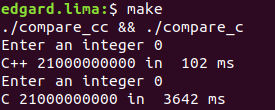
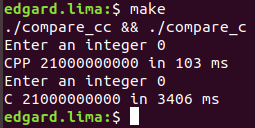
refactored

diff --git a/comparing_cc_c/variadic_functions/main.cc b/comparing_cc_c/variadic_functions/main.cc
@@ -1,98 +1,25 @@
 
-
 #ifdef __cplusplus
-
-#pragma message "compiling for c++"
-
 #include <sys/time.h>
 #include <cstdio>
 #include <cstdint>
-#include <cstdlib>
-
-#define LANG "C++"
+//#define LANG "C++"
 #else
-
-#pragma message "compiling for c"
-
 #include <sys/time.h>
 #include <stdint.h>
-#include <stdarg.h>
 #include <stdio.h>
-#include <stdlib.h>
-
-#define LANG "C"
+//#define LANG "C"
 #endif
 
-
-#ifdef RAND
-#define VARIADIC_LOOPS 1000000
-#else
-#define VARIADIC_LOOPS 100000000
-#endif
-
-#ifdef INPUT
-static int value_;
-#else
-#define value_ 1
-#endif
-
-#ifdef __cplusplus
-
-template <typename T>
-int64_t add(T t) {
-    return t;
-}
-
-template <typename T, typename ... Ts>
-int64_t add(T head, Ts ... rest) {
-    return static_cast<int64_t>(head) + add(rest ...);
-}
-
-static int64_t test_variadic() {
-    int64_t t = 0;
-    for (int i=0; i < VARIADIC_LOOPS; i++) {
-#ifdef RAND
-        t += add(rand(),rand(),rand(),rand(),rand(),rand(),rand(),rand(),rand(),rand(),rand(),rand(),rand(),rand(),rand(),rand(),rand(),rand(),rand(),rand(),rand(),rand(),rand(),rand(),rand(),rand(),rand(),rand(),rand(),rand(),rand(),rand(),rand(),rand(),rand(),rand(),rand(),rand(),rand(),rand(),rand(),rand(),rand(),rand(),rand(),rand(),rand(),rand(),rand(),rand(),rand(),rand(),rand(),rand(),rand(),rand(),rand(),rand(),rand(),rand(),rand(),rand(),rand(),rand(),rand(),rand(),rand(),rand(),rand(),rand(),rand(),rand(),rand(),rand(),rand(),rand(),rand(),rand(),rand(),rand(),rand(),rand(),rand(),rand(),rand(),rand(),rand(),rand(),rand(),rand(),rand(),rand(),rand(),rand(),rand(),rand(),rand(),rand(),rand(),rand(),rand(),rand(),rand(),rand(),rand(),rand(),rand(),rand(),rand(),rand(),rand(),rand(),rand(),rand(),rand(),rand(),rand(),rand(),rand(),rand(),rand(),rand(),rand(),rand(),rand(),rand(),rand(),rand(),rand(),rand(),rand(),rand(),rand(),rand(),rand(),rand(),rand(),rand(),rand(),rand(),rand(),rand(),rand(),rand(),rand(),rand(),rand(),rand(),rand(),rand(),rand(),rand(),rand(),rand(),rand(),rand(),rand(),rand(),rand(),rand(),rand(),rand(),rand(),rand(),rand(),rand(),rand(),rand(),rand(),rand(),rand(),rand(),rand(),rand(),rand(),rand(),rand(),rand(),rand(),rand(),rand(),rand(),rand(),rand(),rand(),rand(),rand(),rand(),rand(),rand(),rand(),rand(),rand(),rand(),rand(),rand(),rand(),rand(),rand(),rand(),rand(),rand(),rand(),rand(),rand(),rand(),rand(),rand(),rand(),rand(),rand(),rand(),rand(),rand(),rand(),rand(),rand(),rand(),rand(),rand(),rand(),rand(),rand(),rand(),rand(),rand(),rand(),rand(),rand(),rand(),rand(),rand(),rand(),rand(),rand(),rand(),rand(),rand(),rand(),rand(),rand(),rand(),rand(),rand(),rand(),rand(),rand(),rand(),rand(),rand(),rand(),rand(),rand(),rand(),rand(),rand(),rand(),rand(),rand(),rand(),rand(),rand(),rand(),rand(),rand(),rand(),rand(),rand(),rand(),rand(),rand(),rand(),rand(),rand(),rand(),rand(),rand(),rand(),rand(),rand(),rand(),rand(),rand(),rand(),rand(),rand(),rand(),rand(),rand(),rand(),rand(),rand(),rand(),rand(),rand(),rand(),rand(),rand(),rand(),rand(),rand(),rand(),rand(),rand(),rand(),rand(),rand(),rand(),rand(),rand(),rand(),rand(),rand(),rand(),rand(),rand(),rand(),rand(),rand(),rand(),rand(),rand(),rand(),rand(),rand(),rand(),rand(),rand(),rand(),rand(),rand(),rand(),rand(),rand(),rand(),rand(),rand(),rand(),rand(),rand(),rand(),rand(),rand(),rand(),rand(),rand(),rand(),rand(),rand(),rand(),rand(),rand(),rand(),rand(),rand(),rand(),rand(),rand(),rand(),rand(),rand(),rand(),rand(),rand(),rand(),rand(),rand(),rand(),rand(),rand(),rand(),rand(),rand(),rand(),rand(),rand(),rand(),rand(),rand(),rand(),rand(),rand(),rand(),rand(),rand(),rand(),rand(),rand(),rand(),rand(),rand(),rand(),rand(),rand(),rand(),rand(),rand(),rand(),rand(),rand(),rand(),rand(),rand(),rand(),rand(),rand(),rand(),rand(),rand(),rand(),rand(),rand(),rand(),rand(),rand(),rand(),rand(),rand(),rand(),rand(),rand(),rand(),rand(),rand(),rand(),rand(),rand(),rand(),rand(),rand(),rand(),rand(),rand(),rand(),rand(),rand(),rand(),rand(),rand(),rand(),rand(),rand(),rand(),rand(),rand(),rand(),rand(),rand(),rand(),rand(),rand(),rand(),rand(),rand(),rand(),rand(),rand(),rand(),rand(),rand(),rand(),rand(),rand(),rand(),rand(),rand(),rand(),rand(),rand(),rand(),rand(),rand(),rand(),rand(),rand(),rand(),rand(),rand(),rand(),rand(),rand(),rand(),rand(),rand(),rand(),rand(),rand(),rand(),rand(),rand(),rand(),rand(),rand(),rand(),rand(),rand(),rand(),rand(),rand(),rand(),rand(),rand(),rand(),rand(),rand(),rand(),rand(),rand(),rand(),rand(),rand(),rand(),rand(),rand(),rand(),rand(),rand(),rand(),rand(),rand(),rand(),rand(),rand(),rand(),rand(),rand(),rand(),rand(),rand(),rand(),rand(),rand(),rand(),rand(),rand(),rand(),rand(),rand(),rand(),rand(),rand(),rand(),rand(),rand(),rand(),rand(),rand(),rand(),rand(),rand(),rand(),rand(),rand(),rand(),rand(),rand(),rand(),rand(),rand(),rand(),rand(),rand(),rand(),rand(),rand(),rand(),rand(),rand(),rand(),rand(),rand(),rand(),rand(),rand(),rand(),rand(),rand(),rand(),rand(),rand(),rand(),rand(),rand(),rand(),rand(),rand(),rand(),rand(),rand(),rand(),rand(),rand(),rand(),rand(),rand(),rand(),rand(),rand(),rand(),rand(),rand(),rand(),rand(),rand(),rand(),rand(),rand(),rand(),rand(),rand(),rand(),rand(),rand(),rand(),rand(),rand(),rand(),rand(),rand(),rand(),rand(),rand(),rand(),rand(),rand(),rand(),rand(),rand(),rand(),rand(),rand(),rand(),rand(),rand(),rand(),rand(),rand(),rand(),rand(),rand(),rand(),rand(),rand(),rand(),rand(),rand(),rand(),rand(),rand(),rand(),rand(),rand(),rand(),rand(),rand(),rand(),rand(),rand(),rand(),rand(),rand(),rand(),rand(),rand(),rand(),rand(),rand(),rand(),rand(),rand(),rand(),rand(),rand(),rand(),rand(),rand(),rand(),rand(),rand(),rand(),rand(),rand(),rand(),rand(),rand(),rand(),rand(),rand(),rand(),rand(),rand(),rand(),rand(),rand(),rand(),rand(),rand(),rand(),rand(),rand(),rand(),rand(),rand(),rand(),rand(),rand(),rand(),rand(),rand(),rand(),rand(),rand(),rand(),rand(),rand(),rand(),rand(),rand(),rand(),rand(),rand(),rand(),rand(),rand(),rand(),rand(),rand(),rand(),rand(),rand(),rand(),rand(),rand(),rand(),rand(),rand(),rand(),rand(),rand(),rand(),rand(),rand(),rand(),rand(),rand(),rand(),rand(),rand(),rand(),rand(),rand(),rand(),rand(),rand(),rand(),rand(),rand(),rand(),rand(),rand(),rand(),rand(),rand(),rand(),rand(),rand(),rand(),rand(),rand(),rand(),rand(),rand(),rand(),rand(),rand(),rand(),rand(),rand(),rand(),rand(),rand(),rand(),rand(),rand(),rand(),rand(),rand(),rand(),rand(),rand(),rand(),rand(),rand(),rand(),rand(),rand(),rand(),rand(),rand(),rand(),rand(),rand(),rand(),rand(),rand(),rand(),rand(),rand(),rand(),rand(),rand(),rand(),rand(),rand(),rand(),rand(),rand(),rand(),rand(),rand(),rand(),rand(),rand(),rand(),rand(),rand(),rand(),rand(),rand(),rand(),rand(),rand(),rand(),rand(),rand(),rand(),rand(),rand(),rand(),rand(),rand(),rand(),rand(),rand(),rand(),rand(),rand(),rand(),rand(),rand(),rand(),rand(),rand(),rand(),rand(),rand(),rand(),rand(),rand(),rand(),rand(),rand(),rand(),rand(),rand(),rand(),rand(),rand(),rand(),rand());
-#else
-        t += add(1,value_,2,3,4,5,6,7,8,9,10,11,12,13,14,15,16,17,18,19,value_,20);
-#endif
-    }
-    return t;
-}
-
-#else
-
-static int64_t add(int end, ...) {
-    int64_t ret = 0;
-    va_list args;
-    va_start(args, end);
-    for (int i=va_arg(args,int); i != end; i=va_arg(args,int)) {
-        ret += i;
-    }
-    return ret;
-}
-
-static int64_t test_variadic() {
-    int64_t t = 0;
-    for (int i=0; i < VARIADIC_LOOPS; i++) {
-#ifdef RAND
-        t += add(-1,rand(),rand(),rand(),rand(),rand(),rand(),rand(),rand(),rand(),rand(),rand(),rand(),rand(),rand(),rand(),rand(),rand(),rand(),rand(),rand(),rand(),rand(),rand(),rand(),rand(),rand(),rand(),rand(),rand(),rand(),rand(),rand(),rand(),rand(),rand(),rand(),rand(),rand(),rand(),rand(),rand(),rand(),rand(),rand(),rand(),rand(),rand(),rand(),rand(),rand(),rand(),rand(),rand(),rand(),rand(),rand(),rand(),rand(),rand(),rand(),rand(),rand(),rand(),rand(),rand(),rand(),rand(),rand(),rand(),rand(),rand(),rand(),rand(),rand(),rand(),rand(),rand(),rand(),rand(),rand(),rand(),rand(),rand(),rand(),rand(),rand(),rand(),rand(),rand(),rand(),rand(),rand(),rand(),rand(),rand(),rand(),rand(),rand(),rand(),rand(),rand(),rand(),rand(),rand(),rand(),rand(),rand(),rand(),rand(),rand(),rand(),rand(),rand(),rand(),rand(),rand(),rand(),rand(),rand(),rand(),rand(),rand(),rand(),rand(),rand(),rand(),rand(),rand(),rand(),rand(),rand(),rand(),rand(),rand(),rand(),rand(),rand(),rand(),rand(),rand(),rand(),rand(),rand(),rand(),rand(),rand(),rand(),rand(),rand(),rand(),rand(),rand(),rand(),rand(),rand(),rand(),rand(),rand(),rand(),rand(),rand(),rand(),rand(),rand(),rand(),rand(),rand(),rand(),rand(),rand(),rand(),rand(),rand(),rand(),rand(),rand(),rand(),rand(),rand(),rand(),rand(),rand(),rand(),rand(),rand(),rand(),rand(),rand(),rand(),rand(),rand(),rand(),rand(),rand(),rand(),rand(),rand(),rand(),rand(),rand(),rand(),rand(),rand(),rand(),rand(),rand(),rand(),rand(),rand(),rand(),rand(),rand(),rand(),rand(),rand(),rand(),rand(),rand(),rand(),rand(),rand(),rand(),rand(),rand(),rand(),rand(),rand(),rand(),rand(),rand(),rand(),rand(),rand(),rand(),rand(),rand(),rand(),rand(),rand(),rand(),rand(),rand(),rand(),rand(),rand(),rand(),rand(),rand(),rand(),rand(),rand(),rand(),rand(),rand(),rand(),rand(),rand(),rand(),rand(),rand(),rand(),rand(),rand(),rand(),rand(),rand(),rand(),rand(),rand(),rand(),rand(),rand(),rand(),rand(),rand(),rand(),rand(),rand(),rand(),rand(),rand(),rand(),rand(),rand(),rand(),rand(),rand(),rand(),rand(),rand(),rand(),rand(),rand(),rand(),rand(),rand(),rand(),rand(),rand(),rand(),rand(),rand(),rand(),rand(),rand(),rand(),rand(),rand(),rand(),rand(),rand(),rand(),rand(),rand(),rand(),rand(),rand(),rand(),rand(),rand(),rand(),rand(),rand(),rand(),rand(),rand(),rand(),rand(),rand(),rand(),rand(),rand(),rand(),rand(),rand(),rand(),rand(),rand(),rand(),rand(),rand(),rand(),rand(),rand(),rand(),rand(),rand(),rand(),rand(),rand(),rand(),rand(),rand(),rand(),rand(),rand(),rand(),rand(),rand(),rand(),rand(),rand(),rand(),rand(),rand(),rand(),rand(),rand(),rand(),rand(),rand(),rand(),rand(),rand(),rand(),rand(),rand(),rand(),rand(),rand(),rand(),rand(),rand(),rand(),rand(),rand(),rand(),rand(),rand(),rand(),rand(),rand(),rand(),rand(),rand(),rand(),rand(),rand(),rand(),rand(),rand(),rand(),rand(),rand(),rand(),rand(),rand(),rand(),rand(),rand(),rand(),rand(),rand(),rand(),rand(),rand(),rand(),rand(),rand(),rand(),rand(),rand(),rand(),rand(),rand(),rand(),rand(),rand(),rand(),rand(),rand(),rand(),rand(),rand(),rand(),rand(),rand(),rand(),rand(),rand(),rand(),rand(),rand(),rand(),rand(),rand(),rand(),rand(),rand(),rand(),rand(),rand(),rand(),rand(),rand(),rand(),rand(),rand(),rand(),rand(),rand(),rand(),rand(),rand(),rand(),rand(),rand(),rand(),rand(),rand(),rand(),rand(),rand(),rand(),rand(),rand(),rand(),rand(),rand(),rand(),rand(),rand(),rand(),rand(),rand(),rand(),rand(),rand(),rand(),rand(),rand(),rand(),rand(),rand(),rand(),rand(),rand(),rand(),rand(),rand(),rand(),rand(),rand(),rand(),rand(),rand(),rand(),rand(),rand(),rand(),rand(),rand(),rand(),rand(),rand(),rand(),rand(),rand(),rand(),rand(),rand(),rand(),rand(),rand(),rand(),rand(),rand(),rand(),rand(),rand(),rand(),rand(),rand(),rand(),rand(),rand(),rand(),rand(),rand(),rand(),rand(),rand(),rand(),rand(),rand(),rand(),rand(),rand(),rand(),rand(),rand(),rand(),rand(),rand(),rand(),rand(),rand(),rand(),rand(),rand(),rand(),rand(),rand(),rand(),rand(),rand(),rand(),rand(),rand(),rand(),rand(),rand(),rand(),rand(),rand(),rand(),rand(),rand(),rand(),rand(),rand(),rand(),rand(),rand(),rand(),rand(),rand(),rand(),rand(),rand(),rand(),rand(),rand(),rand(),rand(),rand(),rand(),rand(),rand(),rand(),rand(),rand(),rand(),rand(),rand(),rand(),rand(),rand(),rand(),rand(),rand(),rand(),rand(),rand(),rand(),rand(),rand(),rand(),rand(),rand(),rand(),rand(),rand(),rand(),rand(),rand(),rand(),rand(),rand(),rand(),rand(),rand(),rand(),rand(),rand(),rand(),rand(),rand(),rand(),rand(),rand(),rand(),rand(),rand(),rand(),rand(),rand(),rand(),rand(),rand(),rand(),rand(),rand(),rand(),rand(),rand(),rand(),rand(),rand(),rand(),rand(),rand(),rand(),rand(),rand(),rand(),rand(),rand(),rand(),rand(),rand(),rand(),rand(),rand(),rand(),rand(),rand(),rand(),rand(),rand(),rand(),rand(),rand(),rand(),rand(),rand(),rand(),rand(),rand(),rand(),rand(),rand(),rand(),rand(),rand(),rand(),rand(),rand(),rand(),rand(),rand(),rand(),rand(),rand(),rand(),rand(),rand(),rand(),rand(),rand(),rand(),rand(),rand(),rand(),rand(),rand(),rand(),rand(),rand(),rand(),rand(),rand(),rand(),rand(),rand(),rand(),rand(),rand(),rand(),rand(),rand(),rand(),rand(),rand(),rand(),rand(),rand(),rand(),rand(),rand(),rand(),rand(),rand(),rand(),rand(),rand(),rand(),rand(),rand(),rand(),rand(),rand(),rand(),rand(),rand(),rand(),rand(),rand(),rand(),rand(),rand(),rand(),rand(),rand(),rand(),rand(),rand(),rand(),rand(),rand(),rand(),rand(),rand(),rand(),rand(),rand(),rand(),rand(),rand(),rand(),rand(),rand(),rand(),rand(),rand(),rand(),rand(),rand(),rand(),rand(),rand(),rand(),rand(),rand(),rand(),rand(),rand(),rand(),rand(),rand(),rand(),rand(),rand(),rand(),rand(),rand(),rand(),rand(),rand(),rand(),rand(),rand(),rand(),rand(),rand(),rand(),rand(),rand(),rand(),rand(),rand(),rand(),rand(),rand(),rand(),rand(),rand(),rand(),rand(),rand(),rand(),rand(),rand(),rand(),rand(),rand(),rand(),rand(),rand(),rand(),rand(),rand(),rand(),rand(),rand(),rand(),rand(),rand(),rand(),rand(),rand(),rand(),rand(),rand(),rand(),rand(),rand(),rand(),rand(),rand(),rand(),rand(),rand(),rand(),rand(),rand(),rand(),rand(),rand(),rand(),-1);
-#else
-        t += add(-1,1,value_,2,3,4,5,6,7,8,9,10,11,12,13,14,15,16,17,18,19,value_,20,-1);
-#endif
-    }
-    return t;
-}
-
-
-#endif
+#include "util.h"
+#include "test.h"
 
 int main(int argc, char *argv[])
 {
     long long int t = 0;
     struct timeval start, end;
 
-#ifdef INPUT
+#ifdef USE_INPUT
     printf("Enter an integer ");
     int res = scanf("%d", &value_);
     if (res != 1) {
@@ -110,7 +37,6 @@ int main(int argc, char *argv[])
 
     t = test_variadic();
 
-    asm volatile("" ::: "memory");
     gettimeofday(&end, NULL);
 
     long long int s1, s2, s;
@@ -119,6 +45,6 @@ int main(int argc, char *argv[])
     s2 = end.tv_sec * 1000LL + end.tv_usec / 1000LL;
     s = s2 - s1;
 
-    printf(LANG " %lld in  %lld ms\n", t, s);
+    printf(MAKE_STR(LANG) " returned %lld in %lld ms\n", t, s);
 }
 

diff --git a/comparing_cc_c/variadic_functions/test.cc b/comparing_cc_c/variadic_functions/test.cc
@@ -1,0 +1,68 @@
+
+#ifdef __cplusplus
+#if (LANG != CPP)
+#error "Expecting compilation for C++"
+#endif
+#include <cstdlib>
+#else
+#if (LANG != C)
+#error "Expecting compilation for C++"
+#endif
+#include <stdarg.h>
+#include <stdlib.h>
+#endif
+
+#ifdef USE_RAND
+#define VARIADIC_LOOPS 1000000
+#else
+#define VARIADIC_LOOPS 100000000
+#endif
+
+#include "test.h"
+
+#ifdef USE_INPUT
+VOLATILE int value_;
+#else
+#define value_ 2
+#endif
+
+#ifdef USE_RAND
+#define RAW_DATA rand(),rand(),rand(),rand(),rand(),rand(),rand(),rand(),rand(),rand(),rand(),rand(),rand(),rand(),rand(),rand(),rand(),rand(),rand(),rand(),rand(),rand(),rand(),rand(),rand(),rand(),rand(),rand(),rand(),rand(),rand(),rand(),rand(),rand(),rand(),rand(),rand(),rand(),rand(),rand(),rand(),rand(),rand(),rand(),rand(),rand(),rand(),rand(),rand(),rand(),rand(),rand(),rand(),rand(),rand(),rand(),rand(),rand(),rand(),rand(),rand(),rand(),rand(),rand(),rand(),rand(),rand(),rand(),rand(),rand(),rand(),rand(),rand(),rand(),rand(),rand(),rand(),rand(),rand(),rand(),rand(),rand(),rand(),rand(),rand(),rand(),rand(),rand(),rand(),rand(),rand(),rand(),rand(),rand(),rand(),rand(),rand(),rand(),rand(),rand(),rand(),rand(),rand(),rand(),rand(),rand(),rand(),rand(),rand(),rand(),rand(),rand(),rand(),rand(),rand(),rand(),rand(),rand(),rand(),rand(),rand(),rand(),rand(),rand(),rand(),rand(),rand(),rand(),rand(),rand(),rand(),rand(),rand(),rand(),rand(),rand(),rand(),rand(),rand(),rand(),rand(),rand(),rand(),rand(),rand(),rand(),rand(),rand(),rand(),rand(),rand(),rand(),rand(),rand(),rand(),rand(),rand(),rand(),rand(),rand(),rand(),rand(),rand(),rand(),rand(),rand(),rand(),rand(),rand(),rand(),rand(),rand(),rand(),rand(),rand(),rand(),rand(),rand(),rand(),rand(),rand(),rand(),rand(),rand(),rand(),rand(),rand(),rand(),rand(),rand(),rand(),rand(),rand(),rand(),rand(),rand(),rand(),rand(),rand(),rand(),rand(),rand(),rand(),rand(),rand(),rand(),rand(),rand(),rand(),rand(),rand(),rand(),rand(),rand(),rand(),rand(),rand(),rand(),rand(),rand(),rand(),rand(),rand(),rand(),rand(),rand(),rand(),rand(),rand(),rand(),rand(),rand(),rand(),rand(),rand(),rand(),rand(),rand(),rand(),rand(),rand(),rand(),rand(),rand(),rand(),rand(),rand(),rand(),rand(),rand(),rand(),rand(),rand(),rand(),rand(),rand(),rand(),rand(),rand(),rand(),rand(),rand(),rand(),rand(),rand(),rand(),rand(),rand(),rand(),rand(),rand(),rand(),rand(),rand(),rand(),rand(),rand(),rand(),rand(),rand(),rand(),rand(),rand(),rand(),rand(),rand(),rand(),rand(),rand(),rand(),rand(),rand(),rand(),rand(),rand(),rand(),rand(),rand(),rand(),rand(),rand(),rand(),rand(),rand(),rand(),rand(),rand(),rand(),rand(),rand(),rand(),rand(),rand(),rand(),rand(),rand(),rand(),rand(),rand(),rand(),rand(),rand(),rand(),rand(),rand(),rand(),rand(),rand(),rand(),rand(),rand(),rand(),rand(),rand(),rand(),rand(),rand(),rand(),rand(),rand(),rand(),rand(),rand(),rand(),rand(),rand(),rand(),rand(),rand(),rand(),rand(),rand(),rand(),rand(),rand(),rand(),rand(),rand(),rand(),rand(),rand(),rand(),rand(),rand(),rand(),rand(),rand(),rand(),rand(),rand(),rand(),rand(),rand(),rand(),rand(),rand(),rand(),rand(),rand(),rand(),rand(),rand(),rand(),rand(),rand(),rand(),rand(),rand(),rand(),rand(),rand(),rand(),rand(),rand(),rand(),rand(),rand(),rand(),rand(),rand(),rand(),rand(),rand(),rand(),rand(),rand(),rand(),rand(),rand(),rand(),rand(),rand(),rand(),rand(),rand(),rand(),rand(),rand(),rand(),rand(),rand(),rand(),rand(),rand(),rand(),rand(),rand(),rand(),rand(),rand(),rand(),rand(),rand(),rand(),rand(),rand(),rand(),rand(),rand(),rand(),rand(),rand(),rand(),rand(),rand(),rand(),rand(),rand(),rand(),rand(),rand(),rand(),rand(),rand(),rand(),rand(),rand(),rand(),rand(),rand(),rand(),rand(),rand(),rand(),rand(),rand(),rand(),rand(),rand(),rand(),rand(),rand(),rand(),rand(),rand(),rand(),rand(),rand(),rand(),rand(),rand(),rand(),rand(),rand(),rand(),rand(),rand(),rand(),rand(),rand(),rand(),rand(),rand(),rand(),rand(),rand(),rand(),rand(),rand(),rand(),rand(),rand(),rand(),rand(),rand(),rand(),rand(),rand(),rand(),rand(),rand(),rand(),rand(),rand(),rand(),rand(),rand(),rand(),rand(),rand(),rand(),rand(),rand(),rand(),rand(),rand(),rand(),rand(),rand(),rand(),rand(),rand(),rand(),rand(),rand(),rand(),rand(),rand(),rand(),rand(),rand(),rand(),rand(),rand(),rand(),rand(),rand(),rand(),rand(),rand(),rand(),rand(),rand(),rand(),rand(),rand(),rand(),rand(),rand(),rand(),rand(),rand(),rand(),rand(),rand(),rand(),rand(),rand(),rand(),rand(),rand(),rand(),rand(),rand(),rand(),rand(),rand(),rand(),rand(),rand(),rand(),rand(),rand(),rand(),rand(),rand(),rand(),rand(),rand(),rand(),rand(),rand(),rand(),rand(),rand(),rand(),rand(),rand(),rand(),rand(),rand(),rand(),rand(),rand(),rand(),rand(),rand(),rand(),rand(),rand(),rand(),rand(),rand(),rand(),rand(),rand(),rand(),rand(),rand(),rand(),rand(),rand(),rand(),rand(),rand(),rand(),rand(),rand(),rand(),rand(),rand(),rand(),rand(),rand(),rand(),rand(),rand(),rand(),rand(),rand(),rand(),rand(),rand(),rand(),rand(),rand(),rand(),rand(),rand(),rand(),rand(),rand(),rand(),rand(),rand(),rand(),rand(),rand(),rand(),rand(),rand(),rand(),rand(),rand(),rand(),rand(),rand(),rand(),rand(),rand(),rand(),rand(),rand(),rand(),rand(),rand(),rand(),rand(),rand(),rand(),rand(),rand(),rand(),rand(),rand(),rand(),rand(),rand(),rand(),rand(),rand(),rand(),rand(),rand(),rand(),rand(),rand(),rand(),rand(),rand(),rand(),rand(),rand(),rand(),rand(),rand(),rand(),rand(),rand(),rand(),rand(),rand(),rand(),rand(),rand(),rand(),rand(),rand(),rand(),rand(),rand(),rand(),rand(),rand(),rand(),rand(),rand(),rand(),rand(),rand(),rand(),rand(),rand(),rand(),rand(),rand(),rand(),rand(),rand(),rand(),rand(),rand(),rand(),rand(),rand(),rand(),rand(),rand(),rand(),rand(),rand(),rand(),rand(),rand(),rand(),rand(),rand(),rand(),rand(),rand(),rand(),rand(),rand(),rand(),rand(),rand(),rand(),rand(),rand(),rand(),rand(),rand(),rand(),rand(),rand(),rand(),rand(),rand(),rand(),rand(),rand(),rand(),rand(),rand(),rand(),rand(),rand(),rand(),rand(),rand(),rand(),rand(),rand(),rand(),rand(),rand(),rand(),rand(),rand(),rand(),rand(),rand(),rand(),rand(),rand(),rand(),rand(),rand(),rand(),rand(),rand(),rand(),rand(),rand(),rand(),rand(),rand(),rand(),rand(),rand(),rand(),rand(),rand(),rand(),rand(),rand(),rand(),rand(),rand(),rand(),rand(),rand(),rand(),rand(),rand(),rand(),rand(),rand(),rand(),rand(),rand(),rand(),rand(),rand(),rand(),rand(),rand(),rand(),rand(),rand(),rand(),rand(),rand(),rand(),rand(),rand(),rand(),rand(),rand(),rand(),rand(),rand(),rand(),rand(),rand(),rand(),rand(),rand(),rand(),rand()
+#else
+#define RAW_DATA 1,value_,2,3,4,5,6,7,8,9,10,11,12,13,14,15,16,17,18,19,value_,20
+#endif
+
+#ifdef __cplusplus
+#define DATA RAW_DATA
+#else
+#define DATA RAW_DATA,-1  // stop condition for C loop
+#endif
+
+#ifdef __cplusplus
+template <typename T, typename ... Ts>
+int64_t add(T head, Ts ... rest) {
+    if constexpr (sizeof...(rest) == 0)
+        return head;
+    else
+        return static_cast<int64_t>(head) + add(rest ...);
+}
+#else 
+static int64_t add(int first, ...) {
+    int64_t ret = first;
+    va_list args;
+    va_start(args, first);
+    for (int i=va_arg(args,int); i >= 0; i=va_arg(args,int)) {
+        ret += i;
+    }
+    return ret;
+}
+#endif
+
+int64_t test_variadic() {
+    int64_t t = 0;
+    for (int i=0; i < VARIADIC_LOOPS; i++) {
+        t += add(DATA);
+    }
+    return t;
+}
+

diff --git a/comparing_cc_c/variadic_functions/test.h b/comparing_cc_c/variadic_functions/test.h
@@ -1,0 +1,22 @@
+#ifndef TEST_H_
+#define TEST_H_
+
+#ifdef __cplusplus
+#include <cstdint>
+#else
+#include <stdint.h>
+#endif
+
+extern int64_t test_variadic();
+
+#ifdef USE_VOLATILE
+#define VOLATILE volatile
+#else
+#define VOLATILE
+#endif
+
+#ifdef USE_INPUT
+extern VOLATILE int value_;
+#endif
+
+#endif  // ifndef TEST_H_

diff --git a/comparing_cc_c/variadic_functions/util.h b/comparing_cc_c/variadic_functions/util.h
@@ -1,0 +1,8 @@
+#ifndef UTIL_H_
+#define UTIL_H_
+
+#define MAKE_STR_INTERNAL(s) #s
+
+#define MAKE_STR(s) MAKE_STR_INTERNAL(s)
+
+#endif  // ifndef UTIL_H_

diff --git a/comparing_cc_c/variadic_functions/README.md b/comparing_cc_c/variadic_functions/README.md
@@ -37,9 +37,11 @@ Now let's try to make C++ life harder by using a value from user input
 First compile de code with:
     
     make clean
-    make DEFS=-DINPUT all
+    make DEFS=-DUSE _INPUT all
 
 Now the program asks the user to enter a value that will be used in the sum
+
+    make
 
     Enter an integer 0
     C++ 21000000000 in  0 ms
@@ -54,6 +56,9 @@ The problem with C compiler is because it doesn't know what is coming in VA_ARGS
 
 C++ still did magic setting the varible as volatile.
 
+    make clean
+    make DEFS="-DUSE_VOLATILE -DUSE_INPUT" all
+
 ![alt text](https://github.com/Dragdex/giganticpp/blob/master/comparing_cc_c/variadic_functions/pics/volatile.png)
 
 ############################################
@@ -65,6 +70,9 @@ To not let C++ calculate the value, or multiply it after fisrt calculation, now 
 C++ has a default limit for template depth of 900 but you can change it with "-ftemplate-depth="
 
 First compile de code with:
+
+    make clean
+    make DEFS="-DUSE_RAND" all
 
 (the compilation takes a while)
 
@@ -79,6 +87,12 @@ Now C++ is just a bit faster. as we see the output from "make"
 Both use RAM of 1.4 MB and (output from "make ram"), and have the same executable size ("ls -la compare_c*")
 
 C++ has a bit smaller object size ("ls -la *.o")
+
+    ls -la compare_c*
+    ls -la test*.o
+    ls -la main*.o
+
+![alt text](https://github.com/Dragdex/giganticpp/blob/master/comparing_cc_c/variadic_functions/pics/rand_objsize.png)
 
 As you can see from C++ assembly, it make inline adds()
 
